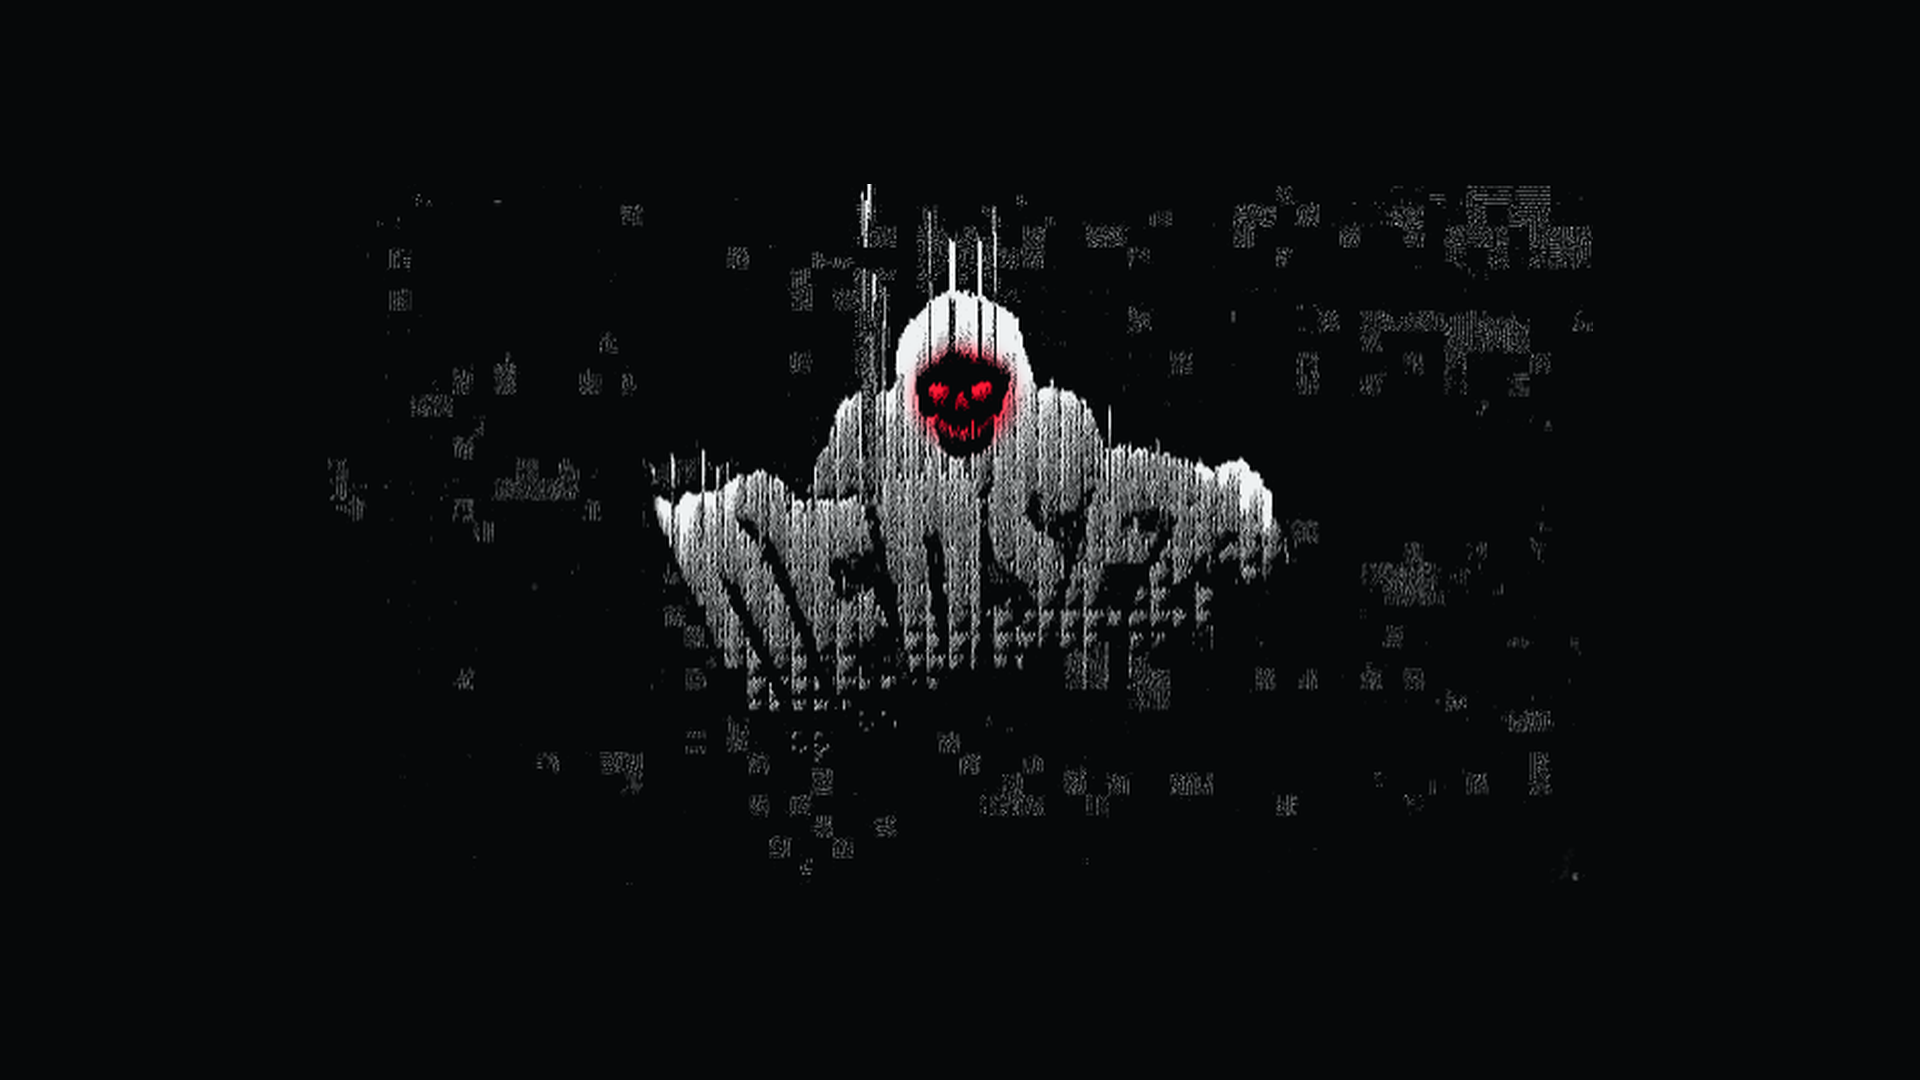
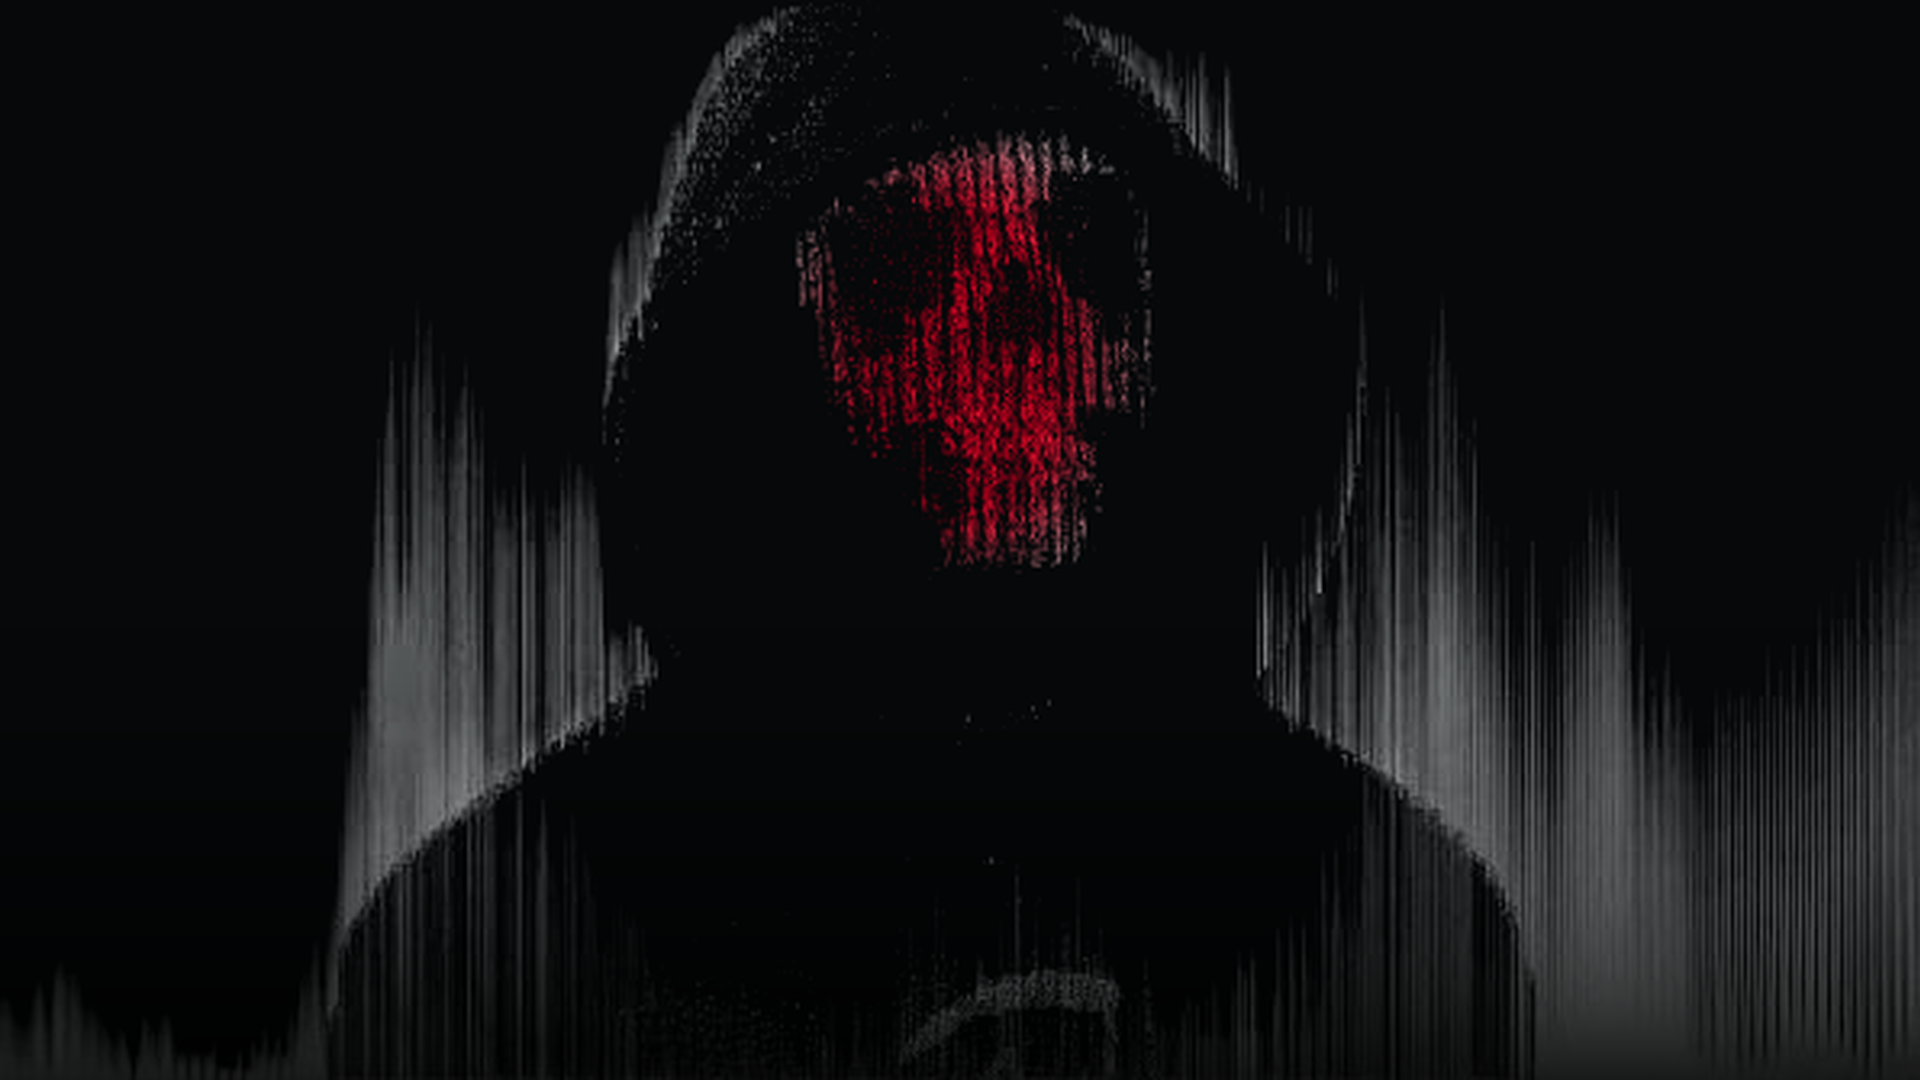
feat(dedsec): wire the other two source images across the interface
Both remaining uploads recolored 1:1 with the same luma-faithful pipeline (all
halftone/glitch texture preserved; only colours move) and placed where their
composition fits:

- images (1).jpg  -> dedsec-reaper.png : wide halftone reaper with arms spread.
  Now the GRUB menu background, and a bottom-edge watcher on the dashboard.
- images (2).jpg  -> dedsec-mask.png   : masked hooded figure, staring out.
  Now the SDDM login background, the hyprlock lock screen, and the dashboard's
  background watcher. Its green cast is gone — the remap is hue-independent.

Both faces are on the neon-red ramp; everything else stays grey/black.

Dashboard: body::before / ::after place the mask behind the HUD and the reaper
along the bottom at low opacity with a gradient mask, so they read as presence
without touching legibility (verified — all panel text unaffected).

recolor.py gains:
- --bg-out PATH (repeatable) to target a specific background instead of always
  writing both, --cover to fill the frame instead of centring, and --scrim F to
  fade the lower frame toward black.
- The scrim matters: the reaper's bright arms sat exactly where GRUB draws its
  menu, which would have made the boot menu unreadable. With --scrim 0.26 the
  menu band measures mean luma 22 against ~156 menu text.

rice/install.sh now ships the artwork to ~/.config/ctos/ so hyprlock can use it.
npm run check still 26/26; dashboard rendered with no JS errors.
[…]

diff --git a/public/ctos.css b/public/ctos.css
@@ -280,3 +280,20 @@ button.on { background: var(--grey-b); color: #06080a; border-color: var(--grey-
 .sk-drip  { fill: var(--skull-red); }
 .wm       { fill: url(#hatch); stroke: #05070a; stroke-width: 8; stroke-linejoin: round; }
 .wm-drip  { fill: url(#hatch); stroke: #05070a; stroke-width: 3; }
+
+/* ── DedSec watchers: the masked figure behind the interface ─────────────── */
+/* "you are being watched" — a low-opacity presence behind every panel. */
+body::before {
+  content: ""; position: fixed; inset: 0; z-index: -2; pointer-events: none;
+  background: url("dedsec-mask.png") center 18% / min(62vw, 900px) auto no-repeat;
+  opacity: 0.19; filter: grayscale(1) contrast(1.1);
+}
+/* the wide reaper watches from the bottom edge */
+body::after {
+  content: ""; position: fixed; left: 0; right: 0; bottom: 0; height: 46vh; z-index: -1;
+  pointer-events: none;
+  background: url("dedsec-reaper.png") center bottom / cover no-repeat;
+  opacity: 0.15;
+  -webkit-mask-image: linear-gradient(to top, #000 0%, transparent 92%);
+          mask-image: linear-gradient(to top, #000 0%, transparent 92%);
+}

diff --git a/boot/recolor.py b/boot/recolor.py
@@ -75,6 +75,31 @@ def apply_skull(img, grey, ellipse, feather=6):
     return img
 
 
+def scrim(img, start=0.5, strength=0.86):
+    """Fade the frame toward black from `start` (0-1) downward, so overlaid
+    menu/login text stays readable over bright artwork."""
+    w, h = img.size
+    o = img.load()
+    y0 = int(h * start)
+    for y in range(y0, h):
+        k = (y - y0) / max(1, (h - y0))          # 0 at start -> 1 at bottom
+        f = 1.0 - strength * (k ** 1.4)
+        for x in range(w):
+            r, g, b = o[x, y]
+            o[x, y] = (int(r * f), int(g * f), int(b * f))
+    return img
+
+
+def cover(img, size=(1920, 1080)):
+    """Scale to fill the frame, cropping the overflow (for wallpapers)."""
+    sw, sh = img.size
+    k = max(size[0] / sw, size[1] / sh)
+    r = img.resize((int(sw * k + 0.5), int(sh * k + 0.5)), Image.LANCZOS)
+    x = (r.width - size[0]) // 2
+    y = (r.height - size[1]) // 2
+    return r.crop((x, y, x + size[0], y + size[1]))
+
+
 def frame(img, size=(1920, 1080), scale=0.66):
     canvas = Image.new("RGB", size, BG)
     tw = int(size[0] * scale)
@@ -95,7 +120,15 @@ def main():
     ap.add_argument("--contrast", type=float, default=1.25)
     ap.add_argument("--feather", type=int, default=6)
     ap.add_argument("--bg", action="store_true", help="also write the 1920x1080 backgrounds")
+    ap.add_argument("--bg-out", action="append", default=[],
+                    help="repo-relative path for a 1920x1080 background (repeatable). "
+                         "Without it, --bg writes both the GRUB and SDDM backgrounds.")
+    ap.add_argument("--cover", action="store_true",
+                    help="fill the whole 1920x1080 frame (crop to fit) instead of centring")
     ap.add_argument("--scale", type=float, default=0.66)
+    ap.add_argument("--scrim", type=float, default=None,
+                    help="darken the frame from this height fraction downward (e.g. 0.5) "
+                         "so overlaid menu/login text stays readable")
     a = ap.parse_args()
 
     src = Image.open(a.src).convert("RGB")
@@ -112,10 +145,14 @@ def main():
     img.save(logo)
     print(f"wrote {logo}")
 
-    if a.bg:
-        bgim = frame(img, scale=a.scale)
-        for p in (os.path.join(ROOT, "boot", "grub", "dedsec", "background.png"),
-                  os.path.join(ROOT, "boot", "greeter", "sddm-dedsec", "background.png")):
+    if a.bg or a.bg_out:
+        bgim = cover(img) if a.cover else frame(img, scale=a.scale)
+        if a.scrim is not None:
+            bgim = scrim(bgim, a.scrim)
+        targets = [os.path.join(ROOT, p) for p in a.bg_out] or [
+            os.path.join(ROOT, "boot", "grub", "dedsec", "background.png"),
+            os.path.join(ROOT, "boot", "greeter", "sddm-dedsec", "background.png")]
+        for p in targets:
             os.makedirs(os.path.dirname(p), exist_ok=True)
             bgim.save(p)
             print(f"wrote {p}  1920x1080")
